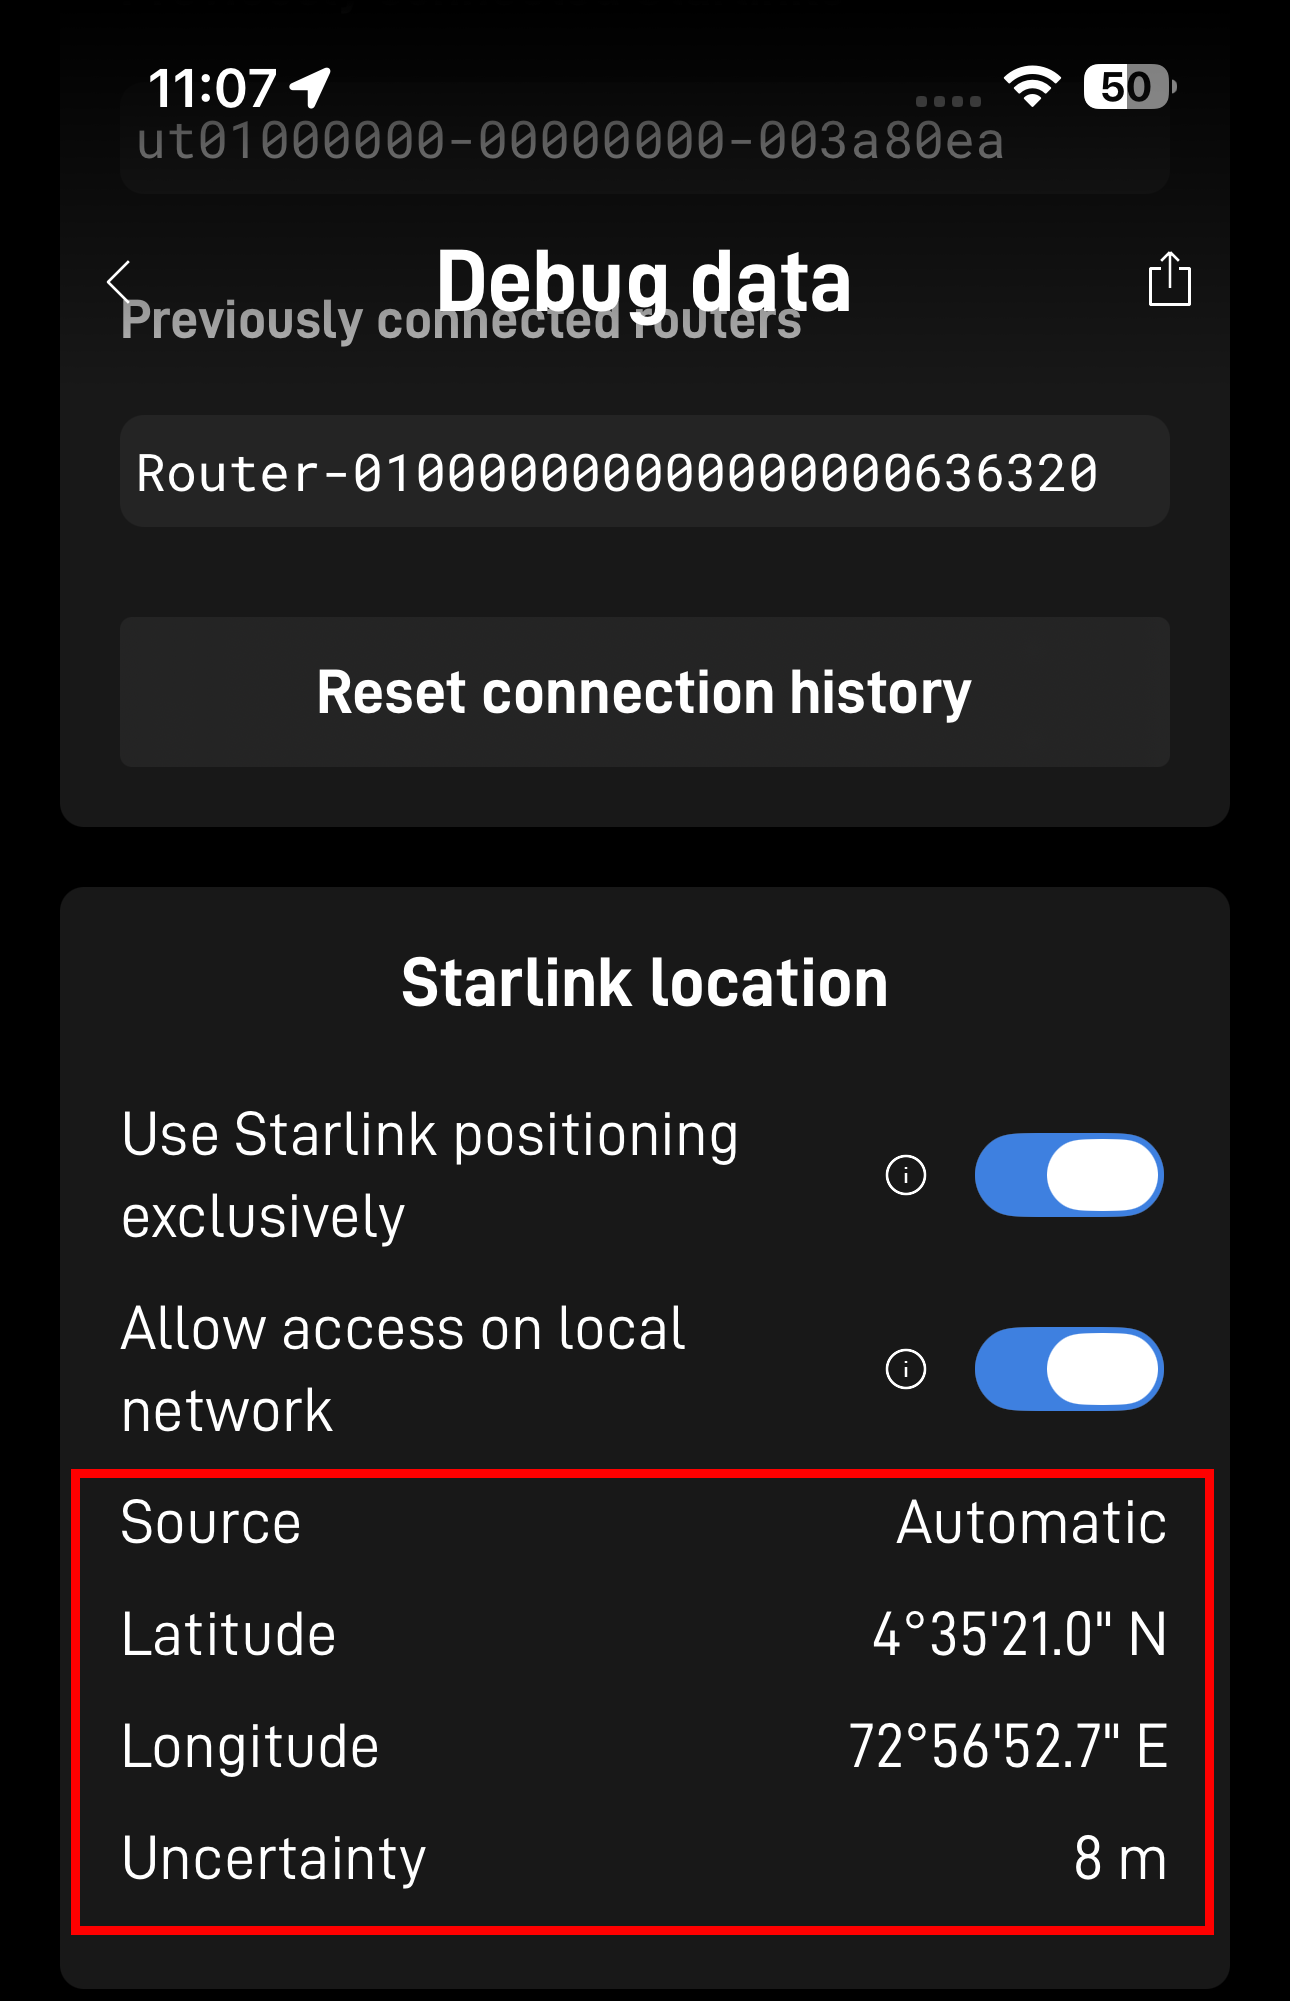
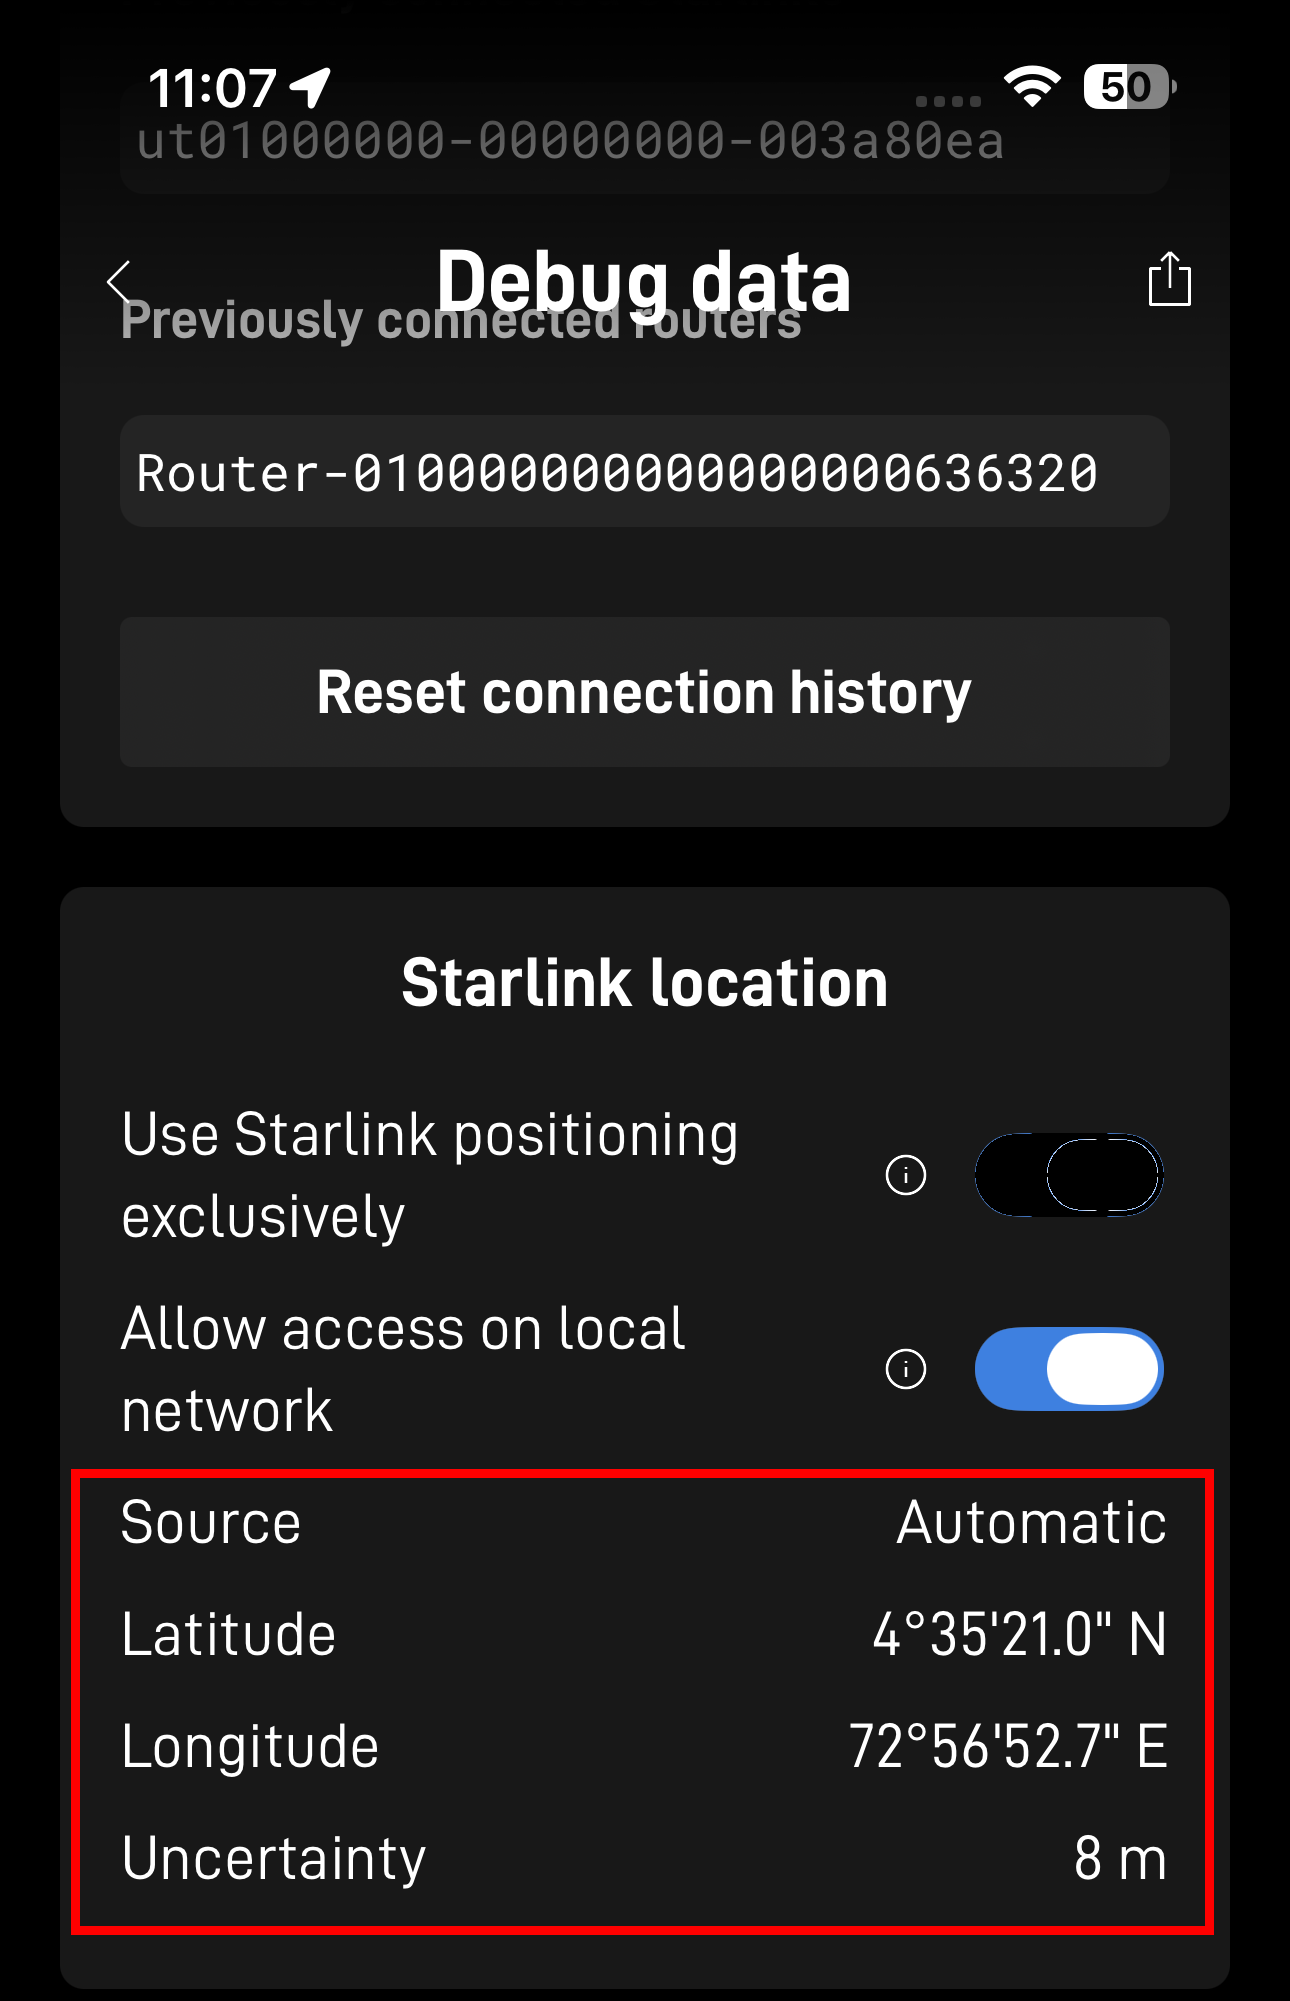
Update with findings from real spoofing
- Update index.md to reflect actual experience on different antennas
  during spoofing
- Remove recommendation to enable Starlink Exclusive postion mode

Changed region(s): [[0.7442, 0.5577, 0.8992, 0.6197]]

diff --git a/docs/assets/css/style.scss b/docs/assets/css/style.scss
@@ -1,0 +1,5 @@
+@import "{{ site.theme }}";
+.btn {
+  display: none !important;
+}
+

diff --git a/docs/index.md b/docs/index.md
@@ -42,19 +42,6 @@ The primary reason Starlink is more resilient than GPS in degraded environments 
 
 • Starlink (LEO): These satellites orbit at only 550 km. Because they are roughly 40 times closer, their signals are 1,000 to 10,000 times stronger than GPS. This "loudness" makes Starlink signals much harder to jam or spoof.  
 
-## "Signals of Opportunity" (Passive Navigation)
-Researchers (notably from UT Austin and Ohio State) have successfully used Starlink’s existing
-internet downlink signals for positioning without any help from SpaceX. This is known as
-opportunistic positioning.
-  
-• Doppler Shift: Because Starlink satellites move very fast across the sky (completing an orbit
-in ~90 minutes), receivers can measure the "Doppler shift" (the change in frequency as the
-satellite passes over). By tracking several satellites, a receiver can calculate its location.
- 
-• Accuracy: Current research has achieved accuracy within 6.5 to 30 meters. While not as precise 
-as the sub-meter accuracy of high-end GPS, it is more than enough for drone navigation or 
-maritime travel when GPS is totally blacked out.  
-
 ## Integrated Resilience (SpaceX Official Features)
 SpaceX has begun leaning into this capability officially. In recent FCC filings and military
 tests, they have highlighted:
@@ -65,21 +52,85 @@ errors) and switch to fallback methods to maintain a data connection. 
 
 • Dense Network: With over 6,000 satellites, a Starlink receiver almost always has a direct line-of-sight to multiple "birds." In urban canyons where tall buildings block GPS signals, the sheer density of Starlink makes it much more likely to maintain a lock.
 
-# Starlink position accuracy
+# Starlink antenna type vs spoofing
 
-It is important to understand the accuracy of your navigation system. 
+It is important to understand the accuracy of your navigation system.
+This section is based on experiences of several boats which experienced
+spoofing in the Red Sea Suakin and Port Sudan areas in March of 2026.
 
-Rui has tested the new DataHub software that reads Starlink position
-from a Starlink mini antenna.  Analysis of collected data shows that
-the Starlink-reported position in Starlink-exclusive mode is more or
-less within 20-30 meters of what GPS reports.
+### Spoofing vs Jamming - Degradation types
 
-Bruce (Wild Orchid) has experienced problems of unknown origin with the
-4-year-old Starlink V2 antenna, and performance so far is unacceptable;
-there are regular data freezes. This is a work in progress.
+Spoofing is when a transmitter somewhere sends out GPS data that
+overpowers the weak GPS satellite data and the data is specially
+constructed to cause receivers to report their location as somewhere
+they are not.
+
+Jamming is where the GPS signal is overridden so as to be unavailable
+to receivers - there is no data at the receiver. That condition has not been
+observed. All the information below relates to spoofing.
+
+### Antenna Types
+
+Boats that experienced spoofing used different antenna types, and the
+antenna behavior in the face of spoofing differed at times:
+
+- Mini - the smallest unit
+- Gen2 - the original flat, self-orienting antenna
+- Gen3 - the newer, larger antenna that has no motors and is very thin
+- High Performance - looks like a larger version of the Gen2, with a square face
+
+In the absence of spoofing, the Starlink-reported position is more or
+less within 20-30 meters of what GPS reports for all antenna types, both
+when at anchor and in motion. Errors increase when a boat is in motion
+but stay broadly within this range.
+
+It has been determined that setting "Use Starlink Exclusively" mode causes
+Gen2, Gen3 and High Performance antennas to freeze and continuously emit
+their last position. That mode should not be enabled on those antennas.
+A difference in behavior associated with that mode has not been observed
+on the Starlink Mini.
+
+Several boats with Starlink Mini, Gen2, Gen3 and High Performance antennas
+recorded data to a PredictWind DataHub, which was analyzed by PredictWind and
+forms the basis of this description. The table below summarizes the
+findings in various conditions.
+
+| Condition             | Mini  | Gen 2  | High Performance |
+|-----------------------|-------|--------|------------------|
+| Anchor + no spoofing  | Works | Works( | Works            |
+| Anchor + spoofing     | Works | Works (position is live) | FAILS (position frozen) |
+| Underway + no spoofing | Works | Works | Works            |
+| Underway + spoofing   | Works | FAILS  | FAILS(worse)     |
+
+Observations while underway in the presence of spoofing suggest that
+spoofing may cause a Gen2 dish to be unable to track
+satellites and to lose connection to the internet.
+
+Anecdotally, THEODORE reported that he actually sailed through an area of
+GPS spoofing near Port Soudan, and used a starlink Mini with the option “Use
+Starlink Positioning Exclusively”.  He said that Starlink position
+reported it had good accuracy under way at 5-6 knots for 50 miles, and
+that its position agreed with GPS once he exited the area of GPS jamming. 
+(Note: Speeds greater than 6 knots may experience less accuracy)
+
+### Fringe Effects
+
+It has been observed that when sailing into a region where spoofing
+is active, a vessel passes through a fringe region where the spoofing signal is
+not strong enough to completely overpower the genuine signal. Receivers
+may alternate between the genuine and the spoofing source, causing
+the reported position to jump between extremes. This could be a sign
+that you should prepare to lose GPS position (and consequently SOG,
+AIS display, etc.)
+
+## Summary
+
+The Starlink Mini antenna is the only type that has demonstrated
+strong resistance to spoofing while underway.
 
 If you think you might need to use Starlink location data, test it 
-before you need it.
+before you need it, and make sure Starlink's position can make it all
+the way through to your navigation system.
 
 # Using Starlink position data
 
@@ -87,10 +138,10 @@ Here are the four major approaches to using Starlink location data.
 
 ### PredictWind Datahub -> Chartplotter or OpenCPN
 
-PredictWind is finalizing a plugin release for their Datahub that can read
+PredictWind has a plugin release for their Datahub that can read
 starlink position information and provide that as a source on a NMEA
 2000 network (or SeatalkNG network). (The Datahub also publishes NMEA0183
-over UDP and TCP on a wifi network.)
+over UDP and TCP on a wifi network.) The plugin
 
 The Datahub converts Starlink location data to NMEA messages and you pipe
 them into a Raymarine chartplotter or OpenCPN.  Use the chartplotter or
@@ -101,21 +152,13 @@ Bruce (Wild Orchid) has tested it on a Raymarine Axiom Pro. Rui (Anne
 Charlotte) has tested it on an older Raymarine E120 (Wide) Classic,
 and also with OpenCPN.
 
-Keep in mind, both Starlink and PredictWind will disavow this a a general
-purpose navigation source, for legal purposes. None of us know for sure how
-well this will work in a real gps degraded or spoofed environment in any
-given configuration. After
-determining that the gps environment is degraded or spoofed, you could
-switch your chartplotter to use the DataHub with starlink. You should
+Keep in mind, both Starlink and PredictWind may disavow this a a general
+purpose navigation source, for legal purposes.
+
+After determining that the gps environment is degraded or spoofed, you could
+switch your chartplotter to use the DataHub with Starlink. You should
 still be extremely vigilant in case the starlink data is not correct
 and switch back to your normal GPS source as soon as it seems stable.
-
-That said, THEODORE reported that he actually sailed through an area of
-GPS spoofing near Port Soudan, and used starlink with the option “Use
-Starlink Positioning Exclusively”.  He said that Starlink position
-reported it had good accuracy under way at 5-6 knots for 50 miles, and
-that its position agreed with GPS once he exited the area of GPS jamming. 
-(Note: Speeds greater than 6 knots may experience less accuracy)
 
 ### Starlink -> Signalk -> OpenCPN
 
@@ -174,11 +217,6 @@ configuration or software installation may be needed.
 Follow the instructions at [this page](starlink_setup.html) to configure your
 Starlink antenna to make its data available on the local network.
 
-On the Starlink location data page in the app, it is crucial to also
-select the option “Use Starlink Positioning Exclusively”, when
-switching to navigate using Starlink position data, otherwise it will
-also be (or could be) affected by the GPS jamming
-
 # Starlink->PredictWind Datahub->Chartplotter or OpenCPN setup
 
 Follow the instructions at [this page](pw_datahub_setup.html) to configure your
@@ -230,5 +268,4 @@ fellow cruisers.
 
 # Future sections
 
-1. Signalk setup
-2. FAQ
+1. FAQ

diff --git a/docs/starlink_setup.md b/docs/starlink_setup.md
@@ -16,7 +16,7 @@ This configuration is performed using the official **Starlink mobile app** and i
 3. Scroll to the bottom of the page and tap the **“i” (information)** icon
 4. Scroll down and select **Debug Data**
 5. Scroll to the **Starlink location** section
-6. Enable both options: **Use Startlink positioning exclusively** and **Allow access on local network**
+6. Enable **Allow access on local network**
 
 ![IMAGE: Starlink app – main screen menu (two horizontal lines)](images/Startlink_settings.png)
 
